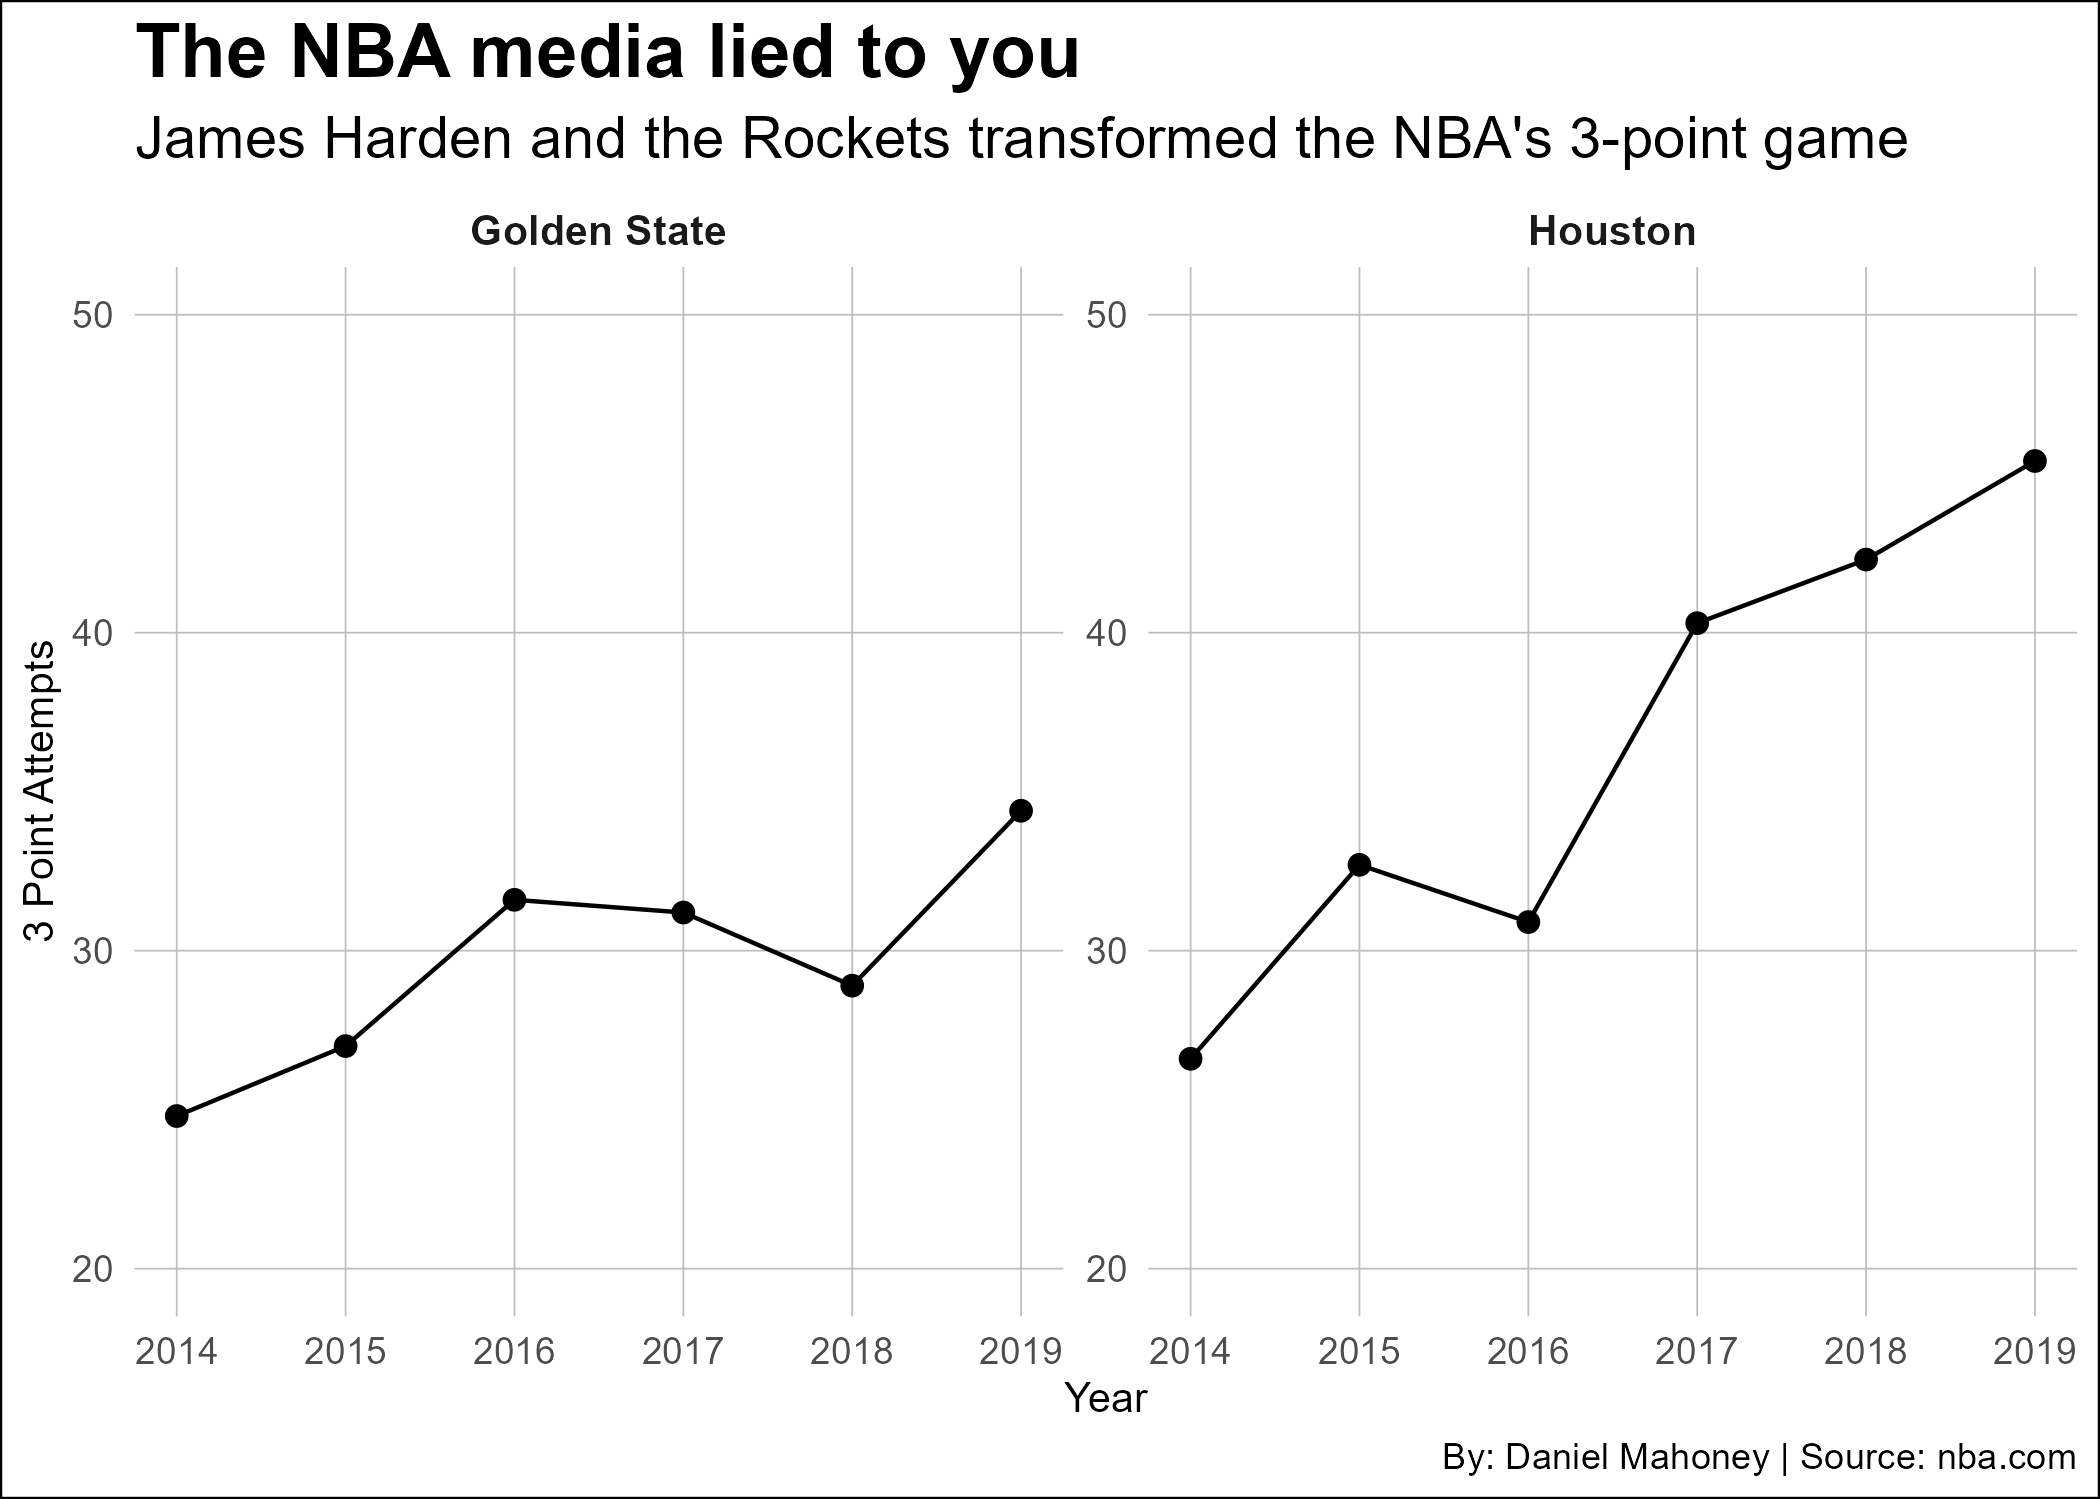
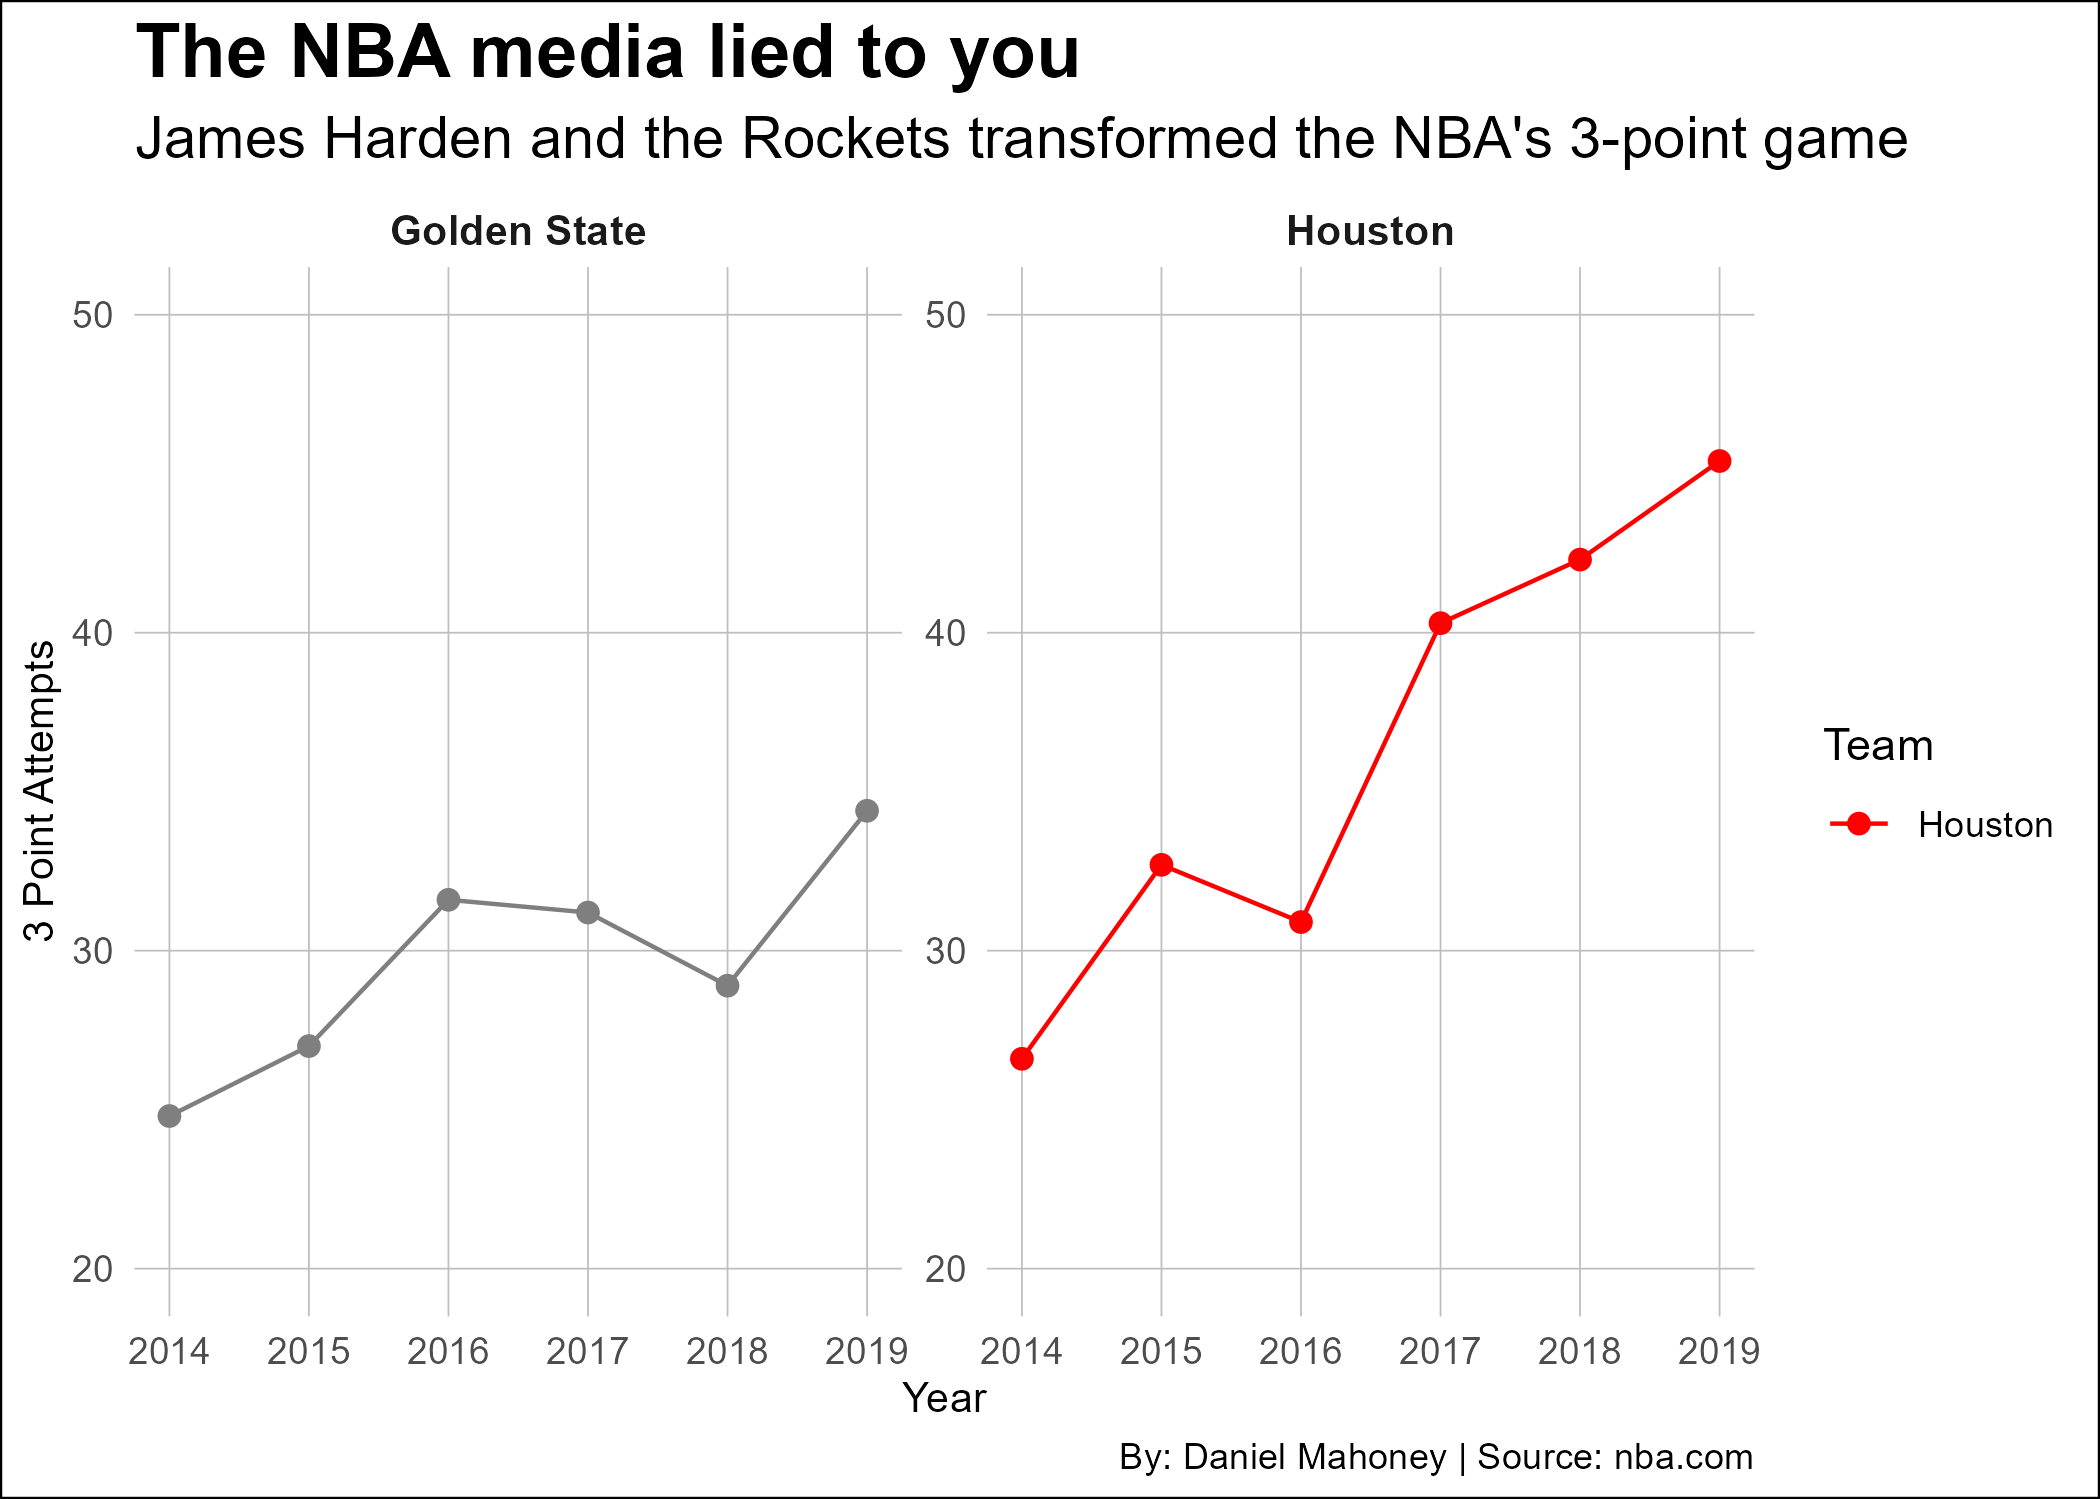
update index.html

diff --git a/posts/three-point-revolution/index.html b/posts/three-point-revolution/index.html
@@ -210,12 +210,12 @@ pre > code.sourceCode > span > a:first-child::before { text-decoration: underlin
 <span id="cb1-8"><a href="#cb1-8" aria-hidden="true" tabindex="-1"></a><span class="fu">ggplot</span>() <span class="sc">+</span></span>
 <span id="cb1-9"><a href="#cb1-9" aria-hidden="true" tabindex="-1"></a>  <span class="fu">geom_line</span>(</span>
 <span id="cb1-10"><a href="#cb1-10" aria-hidden="true" tabindex="-1"></a>    <span class="at">data =</span> logs,</span>
-<span id="cb1-11"><a href="#cb1-11" aria-hidden="true" tabindex="-1"></a>    <span class="fu">aes</span>(<span class="at">x =</span> Year, <span class="at">y =</span> <span class="st">`</span><span class="at">3P Attempts</span><span class="st">`</span>, <span class="at">group =</span> Team)</span>
+<span id="cb1-11"><a href="#cb1-11" aria-hidden="true" tabindex="-1"></a>    <span class="fu">aes</span>(<span class="at">x =</span> Year, <span class="at">y =</span> <span class="st">`</span><span class="at">3P Attempts</span><span class="st">`</span>, <span class="at">group =</span> Team, <span class="at">color =</span> Team)</span>
 <span id="cb1-12"><a href="#cb1-12" aria-hidden="true" tabindex="-1"></a>  ) <span class="sc">+</span></span>
 <span id="cb1-13"><a href="#cb1-13" aria-hidden="true" tabindex="-1"></a>  <span class="fu">geom_point</span>(</span>
 <span id="cb1-14"><a href="#cb1-14" aria-hidden="true" tabindex="-1"></a>    <span class="at">data =</span> logs,</span>
-<span id="cb1-15"><a href="#cb1-15" aria-hidden="true" tabindex="-1"></a>    <span class="fu">aes</span>(<span class="at">x =</span> Year, <span class="at">y =</span> <span class="st">`</span><span class="at">3P Attempts</span><span class="st">`</span>),</span>
-<span id="cb1-16"><a href="#cb1-16" aria-hidden="true" tabindex="-1"></a>    <span class="at">size =</span> <span class="dv">2</span>  </span>
+<span id="cb1-15"><a href="#cb1-15" aria-hidden="true" tabindex="-1"></a>    <span class="fu">aes</span>(<span class="at">x =</span> Year, <span class="at">y =</span> <span class="st">`</span><span class="at">3P Attempts</span><span class="st">`</span>, <span class="at">color =</span> Team),</span>
+<span id="cb1-16"><a href="#cb1-16" aria-hidden="true" tabindex="-1"></a>    <span class="at">size =</span> <span class="dv">2</span></span>
 <span id="cb1-17"><a href="#cb1-17" aria-hidden="true" tabindex="-1"></a>  ) <span class="sc">+</span></span>
 <span id="cb1-18"><a href="#cb1-18" aria-hidden="true" tabindex="-1"></a>  <span class="fu">scale_y_continuous</span>(<span class="at">limits =</span> <span class="fu">c</span>(<span class="dv">20</span>, <span class="dv">50</span>)) <span class="sc">+</span>  </span>
 <span id="cb1-19"><a href="#cb1-19" aria-hidden="true" tabindex="-1"></a>  <span class="fu">facet_wrap</span>(<span class="sc">~</span>Team, <span class="at">scales =</span> <span class="st">"free_y"</span>, <span class="at">ncol =</span> <span class="dv">4</span>) <span class="sc">+</span>  </span>
@@ -225,17 +225,18 @@ pre > code.sourceCode > span > a:first-child::before { text-decoration: underlin
 <span id="cb1-23"><a href="#cb1-23" aria-hidden="true" tabindex="-1"></a>    <span class="at">y =</span> <span class="st">"3 Point Attempts"</span>, <span class="at">x =</span> <span class="st">"Year"</span>,</span>
 <span id="cb1-24"><a href="#cb1-24" aria-hidden="true" tabindex="-1"></a>    <span class="at">caption =</span> <span class="st">"By: Daniel Mahoney | Source: nba.com"</span></span>
 <span id="cb1-25"><a href="#cb1-25" aria-hidden="true" tabindex="-1"></a>  ) <span class="sc">+</span></span>
-<span id="cb1-26"><a href="#cb1-26" aria-hidden="true" tabindex="-1"></a>  <span class="fu">theme_minimal</span>() <span class="sc">+</span></span>
-<span id="cb1-27"><a href="#cb1-27" aria-hidden="true" tabindex="-1"></a>  <span class="fu">theme</span>(</span>
-<span id="cb1-28"><a href="#cb1-28" aria-hidden="true" tabindex="-1"></a>    <span class="at">plot.title =</span> <span class="fu">element_text</span>(<span class="at">size =</span> <span class="dv">18</span>, <span class="at">face =</span> <span class="st">"bold"</span>), </span>
-<span id="cb1-29"><a href="#cb1-29" aria-hidden="true" tabindex="-1"></a>    <span class="at">plot.background =</span> <span class="fu">element_rect</span>(<span class="at">fill =</span> <span class="st">"white"</span>),</span>
-<span id="cb1-30"><a href="#cb1-30" aria-hidden="true" tabindex="-1"></a>    <span class="at">plot.subtitle =</span> <span class="fu">element_text</span>(<span class="at">size =</span> <span class="dv">14</span>),  </span>
-<span id="cb1-31"><a href="#cb1-31" aria-hidden="true" tabindex="-1"></a>    <span class="at">axis.title =</span> <span class="fu">element_text</span>(<span class="at">size =</span> <span class="dv">10</span>),  </span>
-<span id="cb1-32"><a href="#cb1-32" aria-hidden="true" tabindex="-1"></a>    <span class="at">axis.text =</span> <span class="fu">element_text</span>(<span class="at">size =</span> <span class="dv">9</span>),  </span>
-<span id="cb1-33"><a href="#cb1-33" aria-hidden="true" tabindex="-1"></a>    <span class="at">strip.text =</span> <span class="fu">element_text</span>(<span class="at">size =</span> <span class="dv">10</span>, <span class="at">face =</span> <span class="st">"bold"</span>),  </span>
-<span id="cb1-34"><a href="#cb1-34" aria-hidden="true" tabindex="-1"></a>    <span class="at">panel.grid.minor =</span> <span class="fu">element_blank</span>(),  </span>
-<span id="cb1-35"><a href="#cb1-35" aria-hidden="true" tabindex="-1"></a>    <span class="at">panel.grid.major =</span> <span class="fu">element_line</span>(<span class="at">color =</span> <span class="st">"gray"</span>, <span class="at">size =</span> <span class="fl">0.2</span>)  </span>
-<span id="cb1-36"><a href="#cb1-36" aria-hidden="true" tabindex="-1"></a>  )</span></code><button title="Copy to Clipboard" class="code-copy-button"><i class="bi"></i></button></pre></div>
+<span id="cb1-26"><a href="#cb1-26" aria-hidden="true" tabindex="-1"></a>  <span class="fu">scale_color_manual</span>(<span class="at">values =</span> <span class="fu">c</span>(<span class="st">"Houston"</span> <span class="ot">=</span> <span class="st">"#FF0000"</span>)) <span class="sc">+</span> </span>
+<span id="cb1-27"><a href="#cb1-27" aria-hidden="true" tabindex="-1"></a>  <span class="fu">theme_minimal</span>() <span class="sc">+</span></span>
+<span id="cb1-28"><a href="#cb1-28" aria-hidden="true" tabindex="-1"></a>  <span class="fu">theme</span>(</span>
+<span id="cb1-29"><a href="#cb1-29" aria-hidden="true" tabindex="-1"></a>    <span class="at">plot.title =</span> <span class="fu">element_text</span>(<span class="at">size =</span> <span class="dv">18</span>, <span class="at">face =</span> <span class="st">"bold"</span>), </span>
+<span id="cb1-30"><a href="#cb1-30" aria-hidden="true" tabindex="-1"></a>    <span class="at">plot.background =</span> <span class="fu">element_rect</span>(<span class="at">fill =</span> <span class="st">"white"</span>),</span>
+<span id="cb1-31"><a href="#cb1-31" aria-hidden="true" tabindex="-1"></a>    <span class="at">plot.subtitle =</span> <span class="fu">element_text</span>(<span class="at">size =</span> <span class="dv">14</span>),  </span>
+<span id="cb1-32"><a href="#cb1-32" aria-hidden="true" tabindex="-1"></a>    <span class="at">axis.title =</span> <span class="fu">element_text</span>(<span class="at">size =</span> <span class="dv">10</span>),  </span>
+<span id="cb1-33"><a href="#cb1-33" aria-hidden="true" tabindex="-1"></a>    <span class="at">axis.text =</span> <span class="fu">element_text</span>(<span class="at">size =</span> <span class="dv">9</span>),  </span>
+<span id="cb1-34"><a href="#cb1-34" aria-hidden="true" tabindex="-1"></a>    <span class="at">strip.text =</span> <span class="fu">element_text</span>(<span class="at">size =</span> <span class="dv">10</span>, <span class="at">face =</span> <span class="st">"bold"</span>),  </span>
+<span id="cb1-35"><a href="#cb1-35" aria-hidden="true" tabindex="-1"></a>    <span class="at">panel.grid.minor =</span> <span class="fu">element_blank</span>(),  </span>
+<span id="cb1-36"><a href="#cb1-36" aria-hidden="true" tabindex="-1"></a>    <span class="at">panel.grid.major =</span> <span class="fu">element_line</span>(<span class="at">color =</span> <span class="st">"gray"</span>, <span class="at">size =</span> <span class="fl">0.2</span>)  </span>
+<span id="cb1-37"><a href="#cb1-37" aria-hidden="true" tabindex="-1"></a>  )</span></code><button title="Copy to Clipboard" class="code-copy-button"><i class="bi"></i></button></pre></div>
 </details>
 <div class="cell-output-display">
 <div>
@@ -505,7 +506,7 @@ pre > code.sourceCode > span > a:first-child::before { text-decoration: underlin
 <span id="cb3-83"><a href="#cb3-83" aria-hidden="true" tabindex="-1"></a>    <span class="at">hjust =</span> <span class="fl">0.5</span></span>
 <span id="cb3-84"><a href="#cb3-84" aria-hidden="true" tabindex="-1"></a>  ) <span class="sc">+</span></span>
 <span id="cb3-85"><a href="#cb3-85" aria-hidden="true" tabindex="-1"></a>   <span class="fu">geom_text</span>(</span>
-<span id="cb3-86"><a href="#cb3-86" aria-hidden="true" tabindex="-1"></a>    <span class="fu">aes</span>(<span class="at">x =</span> <span class="fl">40.7</span>, <span class="at">y =</span> <span class="fl">38.1</span>, <span class="at">label =</span> <span class="st">"Most 3s"</span>),</span>
+<span id="cb3-86"><a href="#cb3-86" aria-hidden="true" tabindex="-1"></a>    <span class="fu">aes</span>(<span class="at">x =</span> <span class="fl">40.7</span>, <span class="at">y =</span> <span class="fl">38.3</span>, <span class="at">label =</span> <span class="st">"Most 3s"</span>),</span>
 <span id="cb3-87"><a href="#cb3-87" aria-hidden="true" tabindex="-1"></a>    <span class="at">color =</span> <span class="st">"black"</span>,</span>
 <span id="cb3-88"><a href="#cb3-88" aria-hidden="true" tabindex="-1"></a>    <span class="at">size =</span> <span class="dv">4</span>,</span>
 <span id="cb3-89"><a href="#cb3-89" aria-hidden="true" tabindex="-1"></a>    <span class="at">vjust =</span> <span class="sc">-</span><span class="dv">1</span>,</span>

diff --git a/index.html b/index.html
@@ -205,7 +205,7 @@ window.Quarto = {
 
 <div class="quarto-listing quarto-listing-container-default" id="listing-listing">
 <div class="list quarto-listing-default">
-<div class="quarto-post image-right" data-index="0" data-categories="YmFza2V0YmFsbCxuYmEsc3RlcGg=" data-listing-date-sort="1733205600000" data-listing-file-modified-sort="1733720442237" data-listing-date-modified-sort="NaN" data-listing-reading-time-sort="16" data-listing-word-count-sort="3014">
+<div class="quarto-post image-right" data-index="0" data-categories="YmFza2V0YmFsbCxuYmEsc3RlcGg=" data-listing-date-sort="1733205600000" data-listing-file-modified-sort="1733721078953" data-listing-date-modified-sort="NaN" data-listing-reading-time-sort="16" data-listing-word-count-sort="3023">
 <div class="thumbnail">
 <p><a href="./posts/three-point-revolution/index.html" class="no-external"></a></p><a href="./posts/three-point-revolution/index.html" class="no-external">
 <p><img loading="lazy" src="./posts/three-point-revolution/image.png" class="thumbnail-image"></p>
